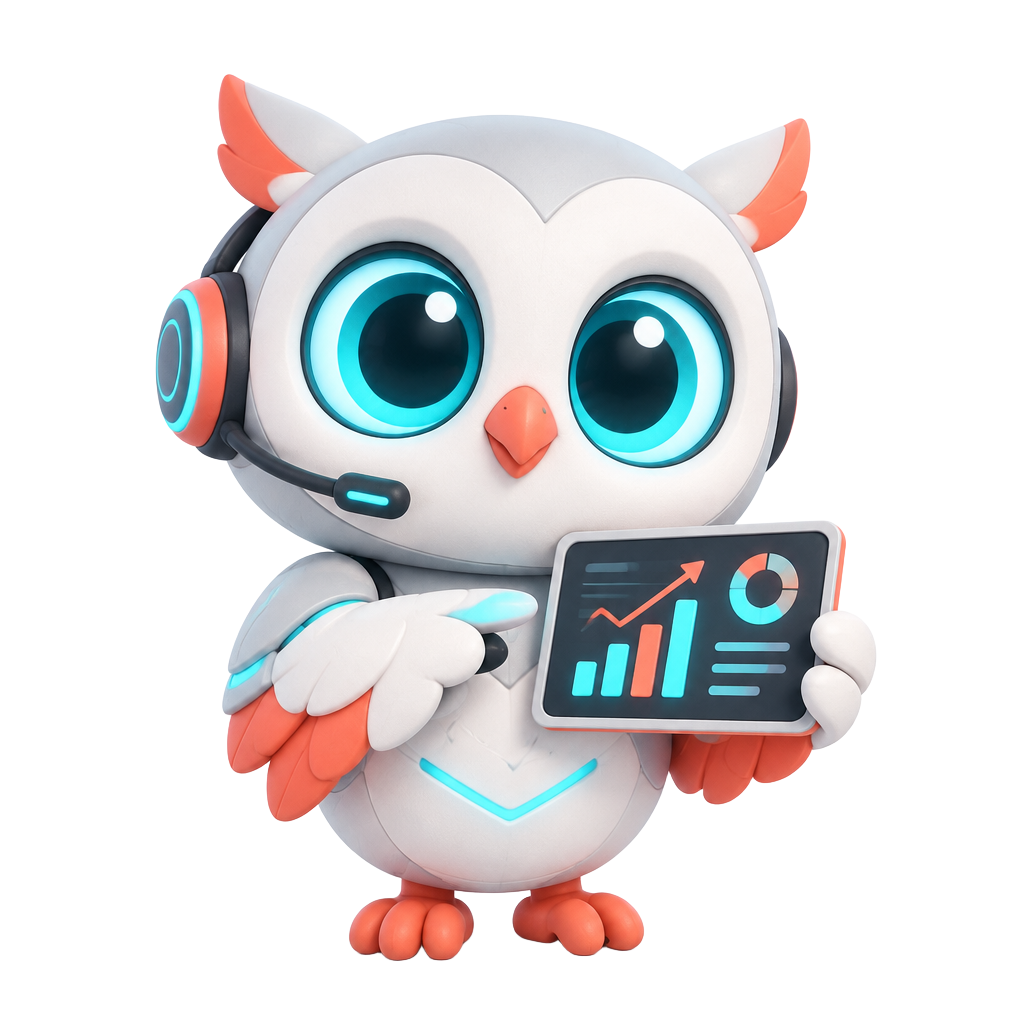
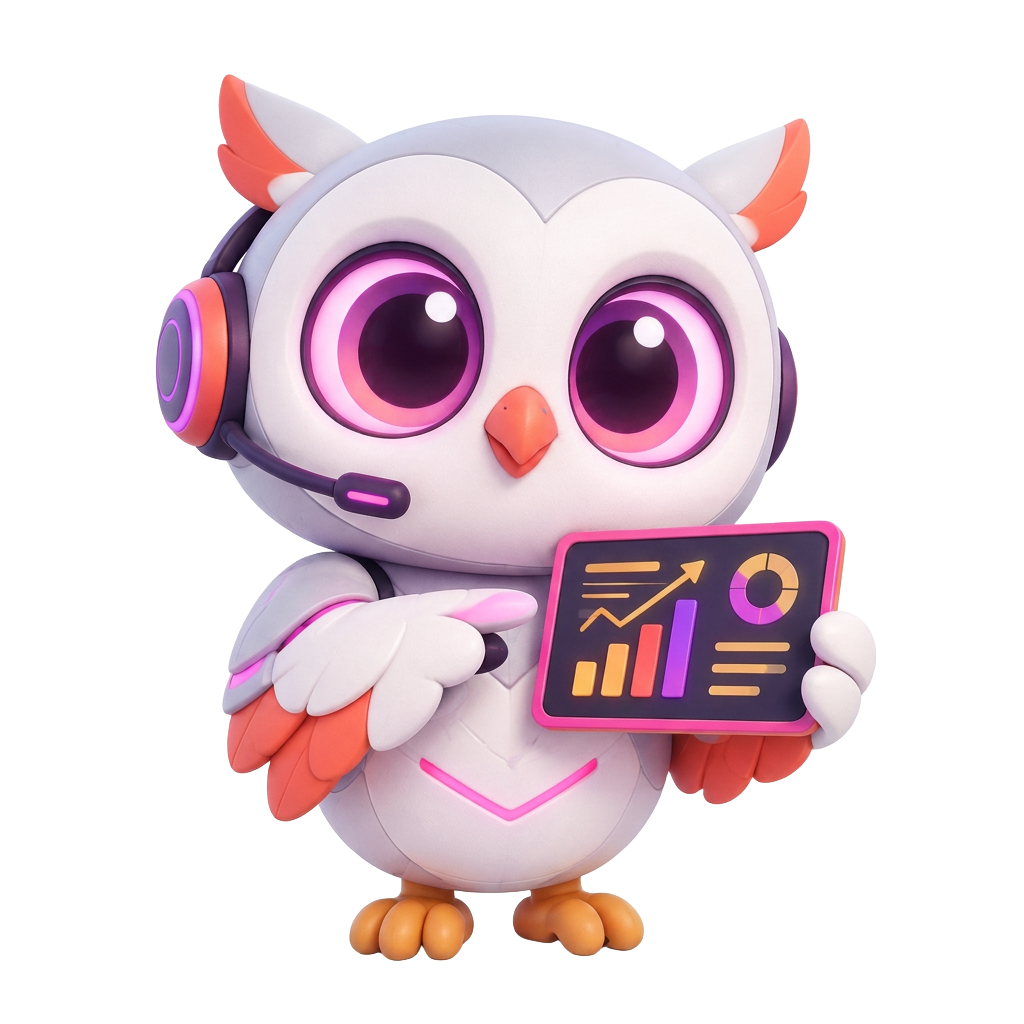
Changes

diff --git a/roadmap.md b/roadmap.md
@@ -1,0 +1,2 @@
+- [ ] Recolor the existing owl with the Instagram palette.
+- [ ] Add an illustrated, usable installation tutorial and verify it in the browser.
